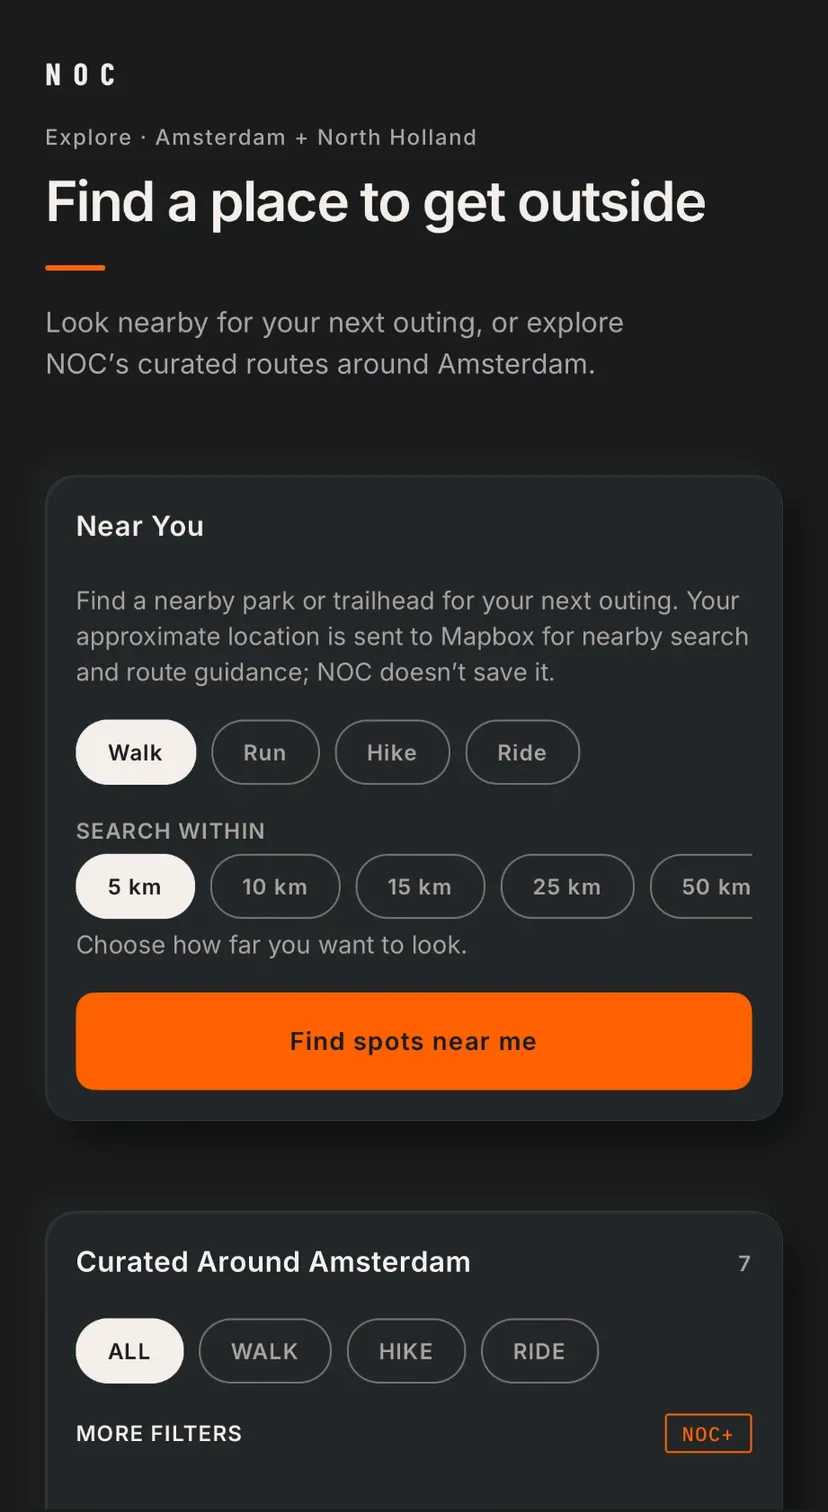
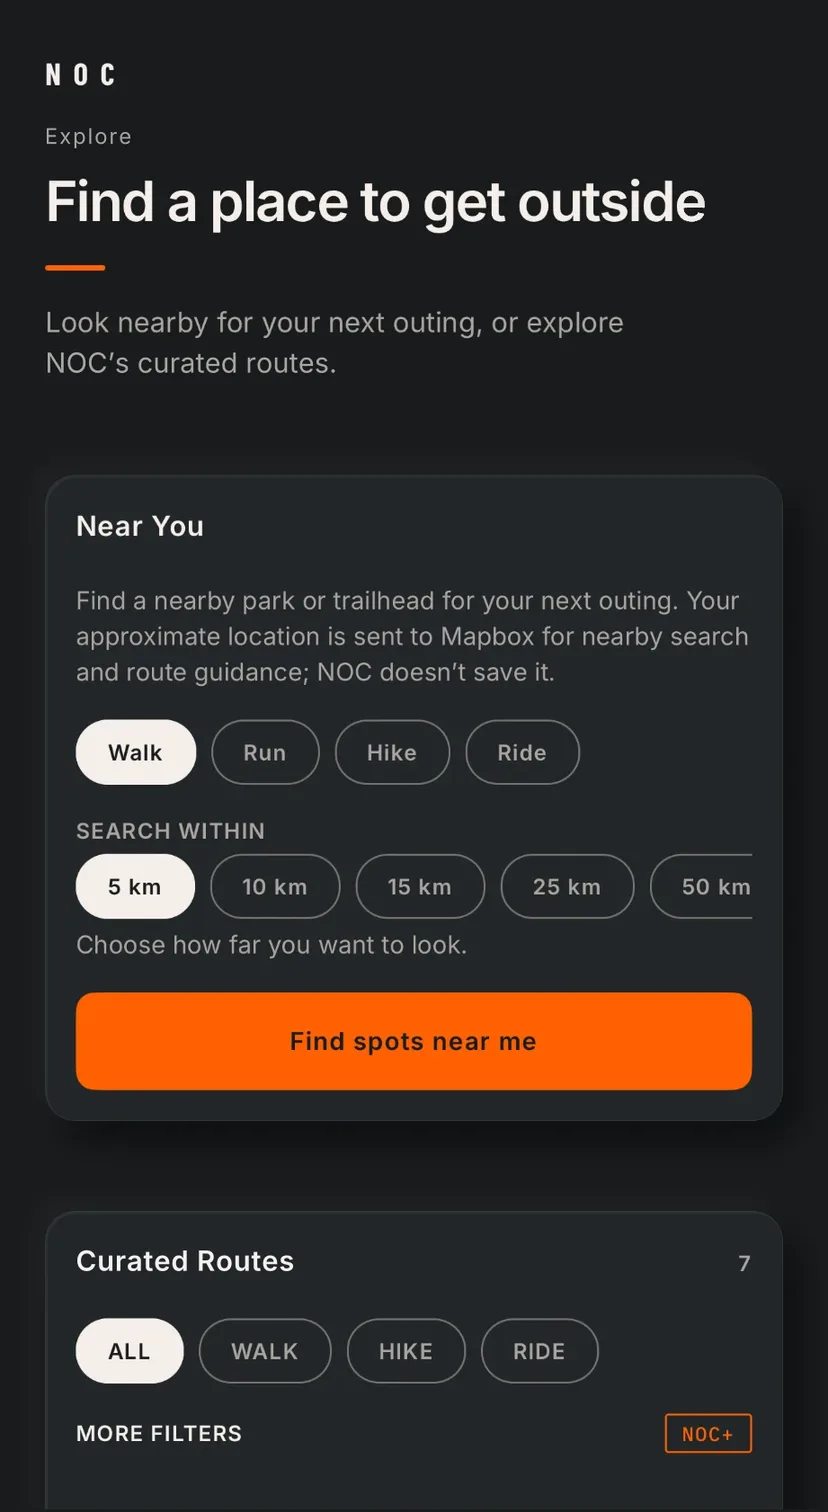
waitlist: Discord ping on new sign-ups, export/delete scripts; Explore screenshot without a city

diff --git a/worker/index.ts b/worker/index.ts
@@ -1,24 +1,34 @@
 // The site's Worker. Static files (dist/) are served by Cloudflare's asset
 // handling; this script only adds:
 //  - nevermadeoutdoorclub.com → www.nevermadeoutdoorclub.com (one address for Google and shares)
-//  - POST /api/waitlist: stores an email address for the app-launch email.
-// Export the list: npx wrangler d1 execute noc-waitlist --remote --command "SELECT email, created_at FROM waitlist"
+//  - POST /api/waitlist: stores an email address for the app-launch email, and
+//    (when the DISCORD_WEBHOOK secret is set) posts "new sign-up, N on the list"
+//    to a private Discord channel. The address itself never goes to Discord.
+// Export or delete the list: npm run waitlist:export / npm run waitlist:delete (scripts/waitlist.mjs).
 
 // Just the bits of Cloudflare's D1 API this file uses.
 interface D1Database {
-  prepare(sql: string): { bind(...values: unknown[]): { run(): Promise<unknown> } };
+  prepare(sql: string): {
+    bind(...values: unknown[]): { run(): Promise<{ meta?: { changes?: number } }> };
+    first<T>(): Promise<T | null>;
+  };
+}
+
+interface ExecutionContext {
+  waitUntil(promise: Promise<unknown>): void;
 }
 
 interface Env {
   ASSETS: { fetch: (req: Request) => Promise<Response> };
   DB: D1Database;
+  DISCORD_WEBHOOK?: string; // set with: npx wrangler secret put DISCORD_WEBHOOK
 }
 
 const APEX = 'nevermadeoutdoorclub.com';
 const EMAIL = /^[^\s@<>()[\]\,;:"]{1,64}@[^\s@<>()[\]\,;:"]+\.[a-z]{2,63}$/i;
 
 export default {
-  async fetch(request: Request, env: Env): Promise<Response> {
+  async fetch(request: Request, env: Env, ctx: ExecutionContext): Promise<Response> {
     const url = new URL(request.url);
 
     if (url.hostname === APEX) {
@@ -28,14 +38,14 @@ export default {
 
     if (url.pathname === '/api/waitlist') {
       if (request.method !== 'POST') return new Response('Method not allowed', { status: 405, headers: { allow: 'POST' } });
-      return waitlist(request, env, url);
+      return waitlist(request, env, url, ctx);
     }
 
     return env.ASSETS.fetch(request);
   },
 };
 
-async function waitlist(request: Request, env: Env, url: URL): Promise<Response> {
+async function waitlist(request: Request, env: Env, url: URL, ctx: ExecutionContext): Promise<Response> {
   const wantsJson = (request.headers.get('accept') ?? '').includes('application/json');
   const reply = (status: number, result: 'ok' | 'invalid' | 'error') =>
     wantsJson
@@ -61,12 +71,33 @@ async function waitlist(request: Request, env: Env, url: URL): Promise<Response>
 
   try {
     // Signing up twice is fine: the address is stored once.
-    await env.DB.prepare('INSERT OR IGNORE INTO waitlist (email, created_at) VALUES (?, ?)')
+    const result = await env.DB.prepare('INSERT OR IGNORE INTO waitlist (email, created_at) VALUES (?, ?)')
       .bind(email, new Date().toISOString())
       .run();
+    // Only new addresses ping Discord; the answer doesn't wait for it.
+    if (result.meta?.changes && env.DISCORD_WEBHOOK) ctx.waitUntil(ping(env));
   } catch (err) {
     console.error('waitlist insert failed', err);
     return reply(500, 'error');
   }
   return reply(200, 'ok');
+}
+
+// "New waitlist sign-up: 23 on the list." No address, nothing else.
+async function ping(env: Env): Promise<void> {
+  try {
+    const row = await env.DB.prepare('SELECT COUNT(*) AS n FROM waitlist').first<{ n: number }>();
+    const n = row?.n ?? 0;
+    const res = await fetch(env.DISCORD_WEBHOOK!, {
+      method: 'POST',
+      headers: { 'content-type': 'application/json' },
+      body: JSON.stringify({
+        content: `New waitlist sign-up: **${n}** on the list.`,
+        allowed_mentions: { parse: [] },
+      }),
+    });
+    if (!res.ok) console.error('discord ping failed', res.status);
+  } catch (err) {
+    console.error('discord ping failed', err);
+  }
 }

diff --git a/src/data/app-screens.ts b/src/data/app-screens.ts
@@ -27,7 +27,7 @@ export const APP_SCREENS: AppScreen[] = [
     file: '3-explore.webp',
     title: 'Explore',
     caption: 'Find a place to get outside',
-    alt: 'The Explore screen: search nearby by activity (walk, run, hike, ride) and distance, and curated routes around Amsterdam.',
+    alt: 'The Explore screen: search nearby by activity (walk, run, hike, ride) and distance, and NOC’s curated routes.',
   },
   {
     file: '4-go.webp',
